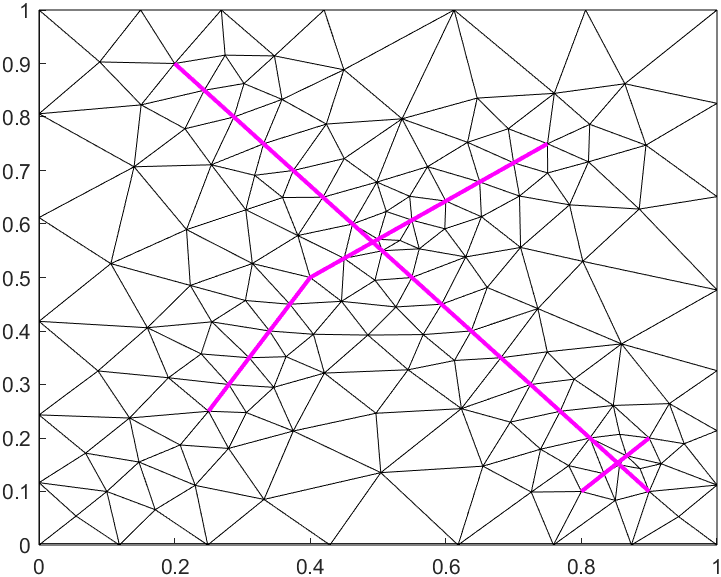
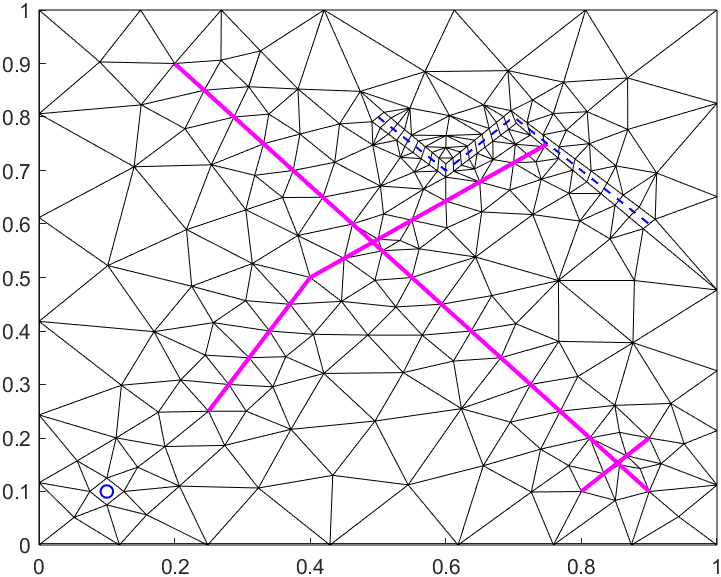
Add all arguments, and argument parser, to pebiGrid2DGmsh

diff --git a/code/gmsh_to_mrst/pebiGrid2DGmsh.m b/code/gmsh_to_mrst/pebiGrid2DGmsh.m
@@ -1,27 +1,218 @@
-function G = pebiGrid2DGmsh(resGridSize, pdims, faceConstraints)
+function G = pebiGrid2DGmsh(resGridSize, size, varargin)
 % Construct a 2D grid, using Gmsh
 % 
 % SYNOPSIS:
 %   G = pebiGrid2DGmsh(resGridSize, pdims, faceConstraints)
 %
-% PARAMETERS
+% ARGUMENTS
 %   resGridSize     - Size of the reservoir grid cells, in units of meters.
 %
-%   pdims           - Vector, length 2, [xmax, ymax], of physical size in
-%                     units of meters of the computational domain
+%   size            - Vector, length 2, [xmax, ymax], of physical size in
+%                   units of meters of the computational domain. The
+%                   domain always starts at [0, 0].
 %
+% OPTIONAL PARAMETERS
 %   faceConstrants  - A struct of vectors. Each vector, size nf x 2, is the
-%                     coordinates of a surface-trace. The surface is
-%                     assumed to be linear between the coordinates. The
-%                     function will place sites such that the surface is
-%                     traced by faces of the grid.
+%                   coordinates of a surface-trace. The surface is
+%                   assumed to be linear between the coordinates. The
+%                   function will place sites such that the surface is
+%                   traced by faces of the grid. Defaults to empty
+%                   struct.
+%
+%   faceConstraintFactor - Float. The size of the cells close to the face
+%                   constraints, as compared to supplied cell_dimensions.
+%                   Cells within min_threshold_distance will have size
+%                   face_constraint_factor * cell_dimensions. Equivalent
+%                   to FCFactor in MRST/UPR/pebiGrid2D. Defaults to 1/3.
+%
+%   minThresholdDistance - Float. Distance from face constraints where cell
+%                   dimensions will start increasing. Defaults to 0.05.
+%
+%   maxThresholdDistance - Float. Distance from face constraints where cell
+%                   dimensions will be back to their default (max) value,
+%                   i.e. the supplied argument cell_dimensions. Defaults
+%                   to 0.2.
+%
+%   faceIntersectionFactor - Float. The size of the cells close to
+%                   intersections between face constraints, as compared to supplied
+%                   cell_dimensions. Cells in min_intersection_distance
+%                   from an intersection will have size
+%                   face_intersection_factor * cell_dimensions.
+%                   If missing, no extra cell shaping will occur around
+%                   intersections. The factor is also used in "breaks" of
+%                   lines, i.e. if there is a sharp "turn" in a line
+%                   segment. Defaults to missing.
+%
+%   minIntersectionDistance - Float. Distance from intersections where cell
+%                   dimensions will start increasing. If missing, will use
+%                   min_threshold_distance. Defaults to missing.
+%
+%   max_intersection_distance - Float. Distance from intersections where
+%                   cell dimensions will be back to their default (max)
+%                   value, i.e. the supplied argument cell_dimensions. If
+%                   missing, will use min_threshold_distance. Defaults to
+%                   missing.
+%
+%   fractureMeshSampling - Int. The number of points along the face
+%                   constraints should be sampled to calculate the
+%                   threshold distances. Defaults to 100.
+%
+%   cellConstraints - A struct of vectors. Each vector, size nf x 2, is a
+%                   line, which the method will attempt to place in the
+%                   center of the returned grid. The lines are assumed to
+%                   be linear between the coordinates. If a constraint is
+%                   only one coordinate, the line is treated as a point
+%                   constraint. Defaults to empty struct.
+%
+%   cellConstraintFactor - Float. The size used for cells around cell
+%                   constraints, as compared to supplied cell_dimensions.
+%                   Equivalent to CCFactor in MRST/UPR/pebiGrid2D.
+%                   Defaults to 1/4.
+%
+%   cellConstraintLineFactor - Float. The size used for cells around cell
+%                   constraint lines, as compared to the supplied
+%                   cell_dimensions. Overrides cell_constraint_factor for
+%                   lines. If missing, cell_constraint_factor will be
+%                   used for lines. Defaults to missing.
+%
+%   cellConstraintPointFactor - Float. The size used for cells around cell
+%                   constraint points, as compared to the supplied 
+%                   cell_dimensions. Overrides cell_constraint_factor for
+%                   points. If missing, cell_constraint_factor will be used
+%                   for points. Defaults to missing.
+%
+%   meshAlgoritm - String | Int. What meshing algorithm should be used.
+%                   Can either be the Gmsh-given ID of the algorithm or the
+%                   name of the algorithm. Legal values:
+%                       "MeshAdapt" = 1
+%                       "Automatic" = 2
+%                       "Delaunay" = 5
+%                       "Frontal" = 6
+%                       "BAMG" = 7
+%                       "DelQuad" = 8
+%                   Defaults to "Delaunay".
+%
+%   recombinationAlgorithm - String | Int. What recombination algorithm
+%                   should be used, and whether recombination should be
+%                   done. Recombination makes Gmsh attempt to create a
+%                   quadrangle mesh, rather than a triangle mesh. Can be
+%                   either the Gmsh-given ID of the algorithm or the name
+%                   of the algorithm. Legal values:
+%                       "Simple" = 0
+%                       "Blossom" = 1
+%                       "SimpleFull" = 2
+%                       "BlossomFull" = 3
+%                   If missing, no recombination will be done. Defaults to
+%                   missing.
+%
+%                   NOTE: Blossom is Gmsh default, but struggles with
+%                       constraints. It may therefore be beneficial to use
+%                       SimpleQuad, if there are constraints.
+%
+%                   NOTE 2: Recombination may lead to weird results for
+%                       constraints, as the recombination is done after
+%                       constraints have been applied. This is especially
+%                       true for SimpleFull and BlossomFull, who 
+%                       automatically perform a coarser mesh, followed by
+%                       recombination, smoothing and subdivision.
+%
 
-pyDims = py.list(pdims);
+defaultFaceConstraints = struct;
+defaultFaceConstraintFactor = 1/3;
+defaultMinThresholdDistance = 0.05;
+defaultMaxThresholdDistance = 0.2;
+defaultFaceIntersectionFactor = string(missing);   % => Python None
+defaultMinIntersectionDistance = string(missing);
+defaultMaxIntersectionDistance = string(missing);
+defaultFractureMeshSampling = 100;
+defaultCellConstraints = struct;
+defaultCellConstraintFactor = 1/4;
+defaultCellConstraintLineFactor = string(missing);
+defaultCellConstraintPointFactor = string(missing);
+defaultMeshAlgorithm = "Delaunay";
+defaultRecombinationAlgorithm = string(missing);
+
+    function valid = validMeshAlgorithm(x)
+        legalStrings = {'MeshAdapt', 'Automatic', 'Delaunay', 'Frontal', 'BAMG', 'DelQuad'};
+        if (isinteger(x) && ismember(x, [1 2 5 6 7 8]))
+            valid = true;
+        else
+            switch validatestring(x, legalStrings)
+                case legalStrings
+                    valid = true;
+                otherwise
+                    valid = false;
+            end
+        end
+    end
+
+    function valid = validRecombinationAlgorithm(x)
+        legalStrings = {'Simple', 'Blossom', 'SimpleFull', 'BlossomFull'};
+        if ismissing(x)
+            valid = true;
+        elseif (isinteger(x) && ismember(x, [0 1 2 3]))
+            valid = true;
+        else
+            switch validatestring(x, legalStrings)
+                case legalStrings
+                    valid = true;
+                otherwise
+                    valid = false;
+            end
+        end
+    end
+
+    validFloat = @(x) isfloat(x) && (x > 0);
+    validSize = @(x) isnumeric(x) && length(x) >= 2;
+    function valid = validOptionalFloat(x)
+        if ismissing(x)
+            valid = true;
+        elseif (isfloat(x) && (x > 0))
+            valid = true;
+        else
+            valid = false;
+        end
+    end
+    validInt = @(x) isinteger(x) && (x > 0);
+
+p = inputParser;
+addRequired(p, 'resGridSize', validFloat);
+addRequired(p, 'size', validSize);
+addParameter(p, 'faceConstraints', defaultFaceConstraints);
+addParameter(p, 'faceConstraintFactor', defaultFaceConstraintFactor, validFloat);
+addParameter(p, 'minThresholdDistance', defaultMinThresholdDistance, validFloat);
+addParameter(p, 'maxThresholdDistance', defaultMaxThresholdDistance, validFloat);
+addParameter(p, 'faceIntersectionFactor', defaultFaceIntersectionFactor, @validOptionalFloat);
+addParameter(p, 'minIntersectionDistance', defaultMinIntersectionDistance, @validOptionalFloat);
+addParameter(p, 'maxIntersectionDistance', defaultMaxIntersectionDistance, @validOptionalFloat);
+addParameter(p, 'fractureMeshSampling', defaultFractureMeshSampling, validInt);
+addParameter(p, 'cellConstraints', defaultCellConstraints);
+addParameter(p, 'cellConstraintFactor', defaultCellConstraintFactor, validFloat);
+addParameter(p, 'cellConstraintLineFactor', defaultCellConstraintLineFactor, @validOptionalFloat);
+addParameter(p, 'cellConstraintPointFactor', defaultCellConstraintPointFactor, @validOptionalFloat);
+addParameter(p, 'meshAlgoritm', defaultMeshAlgorithm, @validMeshAlgorithm);
+addParameter(p, 'recombinationAlgorithm', defaultRecombinationAlgorithm, @validRecombinationAlgorithm);
+
+parse(p, resGridSize, size, varargin{:});
 
 py.pebi_grid_2D.pebi_grid_2D( ...
-    cell_dimensions=resGridSize, ...
-    size=pyDims, ...
-    face_constraints=faceConstraints);
+    cell_dimensions = p.Results.resGridSize, ...
+    size = py.list(p.Results.size), ...
+    face_constraints = p.Results.faceConstraints, ...
+    face_constraint_factor = p.Results.faceConstraintFactor, ...
+    min_threshold_distance = p.Results.minThresholdDistance, ...
+    max_threshold_distance = p.Results.maxThresholdDistance, ...
+    face_intersection_factor = p.Results.faceIntersectionFactor, ...
+    min_intersection_distance = p.Results.minIntersectionDistance, ...
+    max_intersection_distance = p.Results.maxIntersectionDistance, ...
+    fracture_mesh_sampling = p.Results.fractureMeshSampling, ...
+    cell_constraints = p.Results.cellConstraints, ...
+    cell_constraint_factor = p.Results.cellConstraintFactor, ...
+    cell_constraint_line_factor = p.Results.cellConstraintLineFactor, ...
+    cell_constraint_point_factor = p.Results.cellConstraintPointFactor, ...
+    mesh_algorithm = p.Results.meshAlgoritm, ...
+    recombination_algorithm = p.Results.recombinationAlgorithm, ...
+    savename = "TEMP_Gmsh_MRST.m");
 G = 0;
 
 if isfile('TEMP_Gmsh_MRST.m')

diff --git a/code/gmsh_to_mrst/examplePebiGrid2DGmsh.m b/code/gmsh_to_mrst/examplePebiGrid2DGmsh.m
@@ -13,8 +13,18 @@ faceConstraints.theseCanHaveAnyNames.y = [0.9 0.1];
 faceConstraints.alsoWorksWithSinglePoints.x = 0.1;
 faceConstraints.alsoWorksWithSinglePoints.y = 0.1;
 
+cellConstraints.a.x = 0.1;
+cellConstraints.a.y = 0.1;
+cellConstraints.b.x = [0.5 0.6 0.7 0.9];
+cellConstraints.b.y = [0.8 0.7 0.8 0.6];
+
 % pebiGrid2DGmsh returns a single variable, G
-G = pebiGrid2DGmsh(resGridSize, domain, faceConstraints);
+G = pebiGrid2DGmsh( ...
+    resGridSize, ...
+    domain, ...
+    'faceConstraints', faceConstraints, ...
+    'cellConstraints', cellConstraints ...
+);
 
 % Plot result
 hold on;
@@ -24,6 +34,8 @@ plotGrid(G, 'faceColor', 'none');
 plot(faceConstraints.a.x, faceConstraints.a.y, 'lineWidth', 2, 'color', 'magenta', 'markersize', 3);
 plot(faceConstraints.b.x, faceConstraints.b.y, 'lineWidth', 2, 'color', 'magenta', 'markersize', 3);
 plot(faceConstraints.theseCanHaveAnyNames.x, faceConstraints.theseCanHaveAnyNames.y, 'lineWidth', 2, 'color', 'magenta', 'markersize', 3);
+plot(cellConstraints.a.x, cellConstraints.a.y, 'LineWidth', 1, 'Color', 'blue', 'LineStyle','--', Marker='o');
+plot(cellConstraints.b.x, cellConstraints.b.y, 'LineWidth', 1, 'Color', 'blue', 'LineStyle','--');
 
 % Save plot
 f = gcf;
